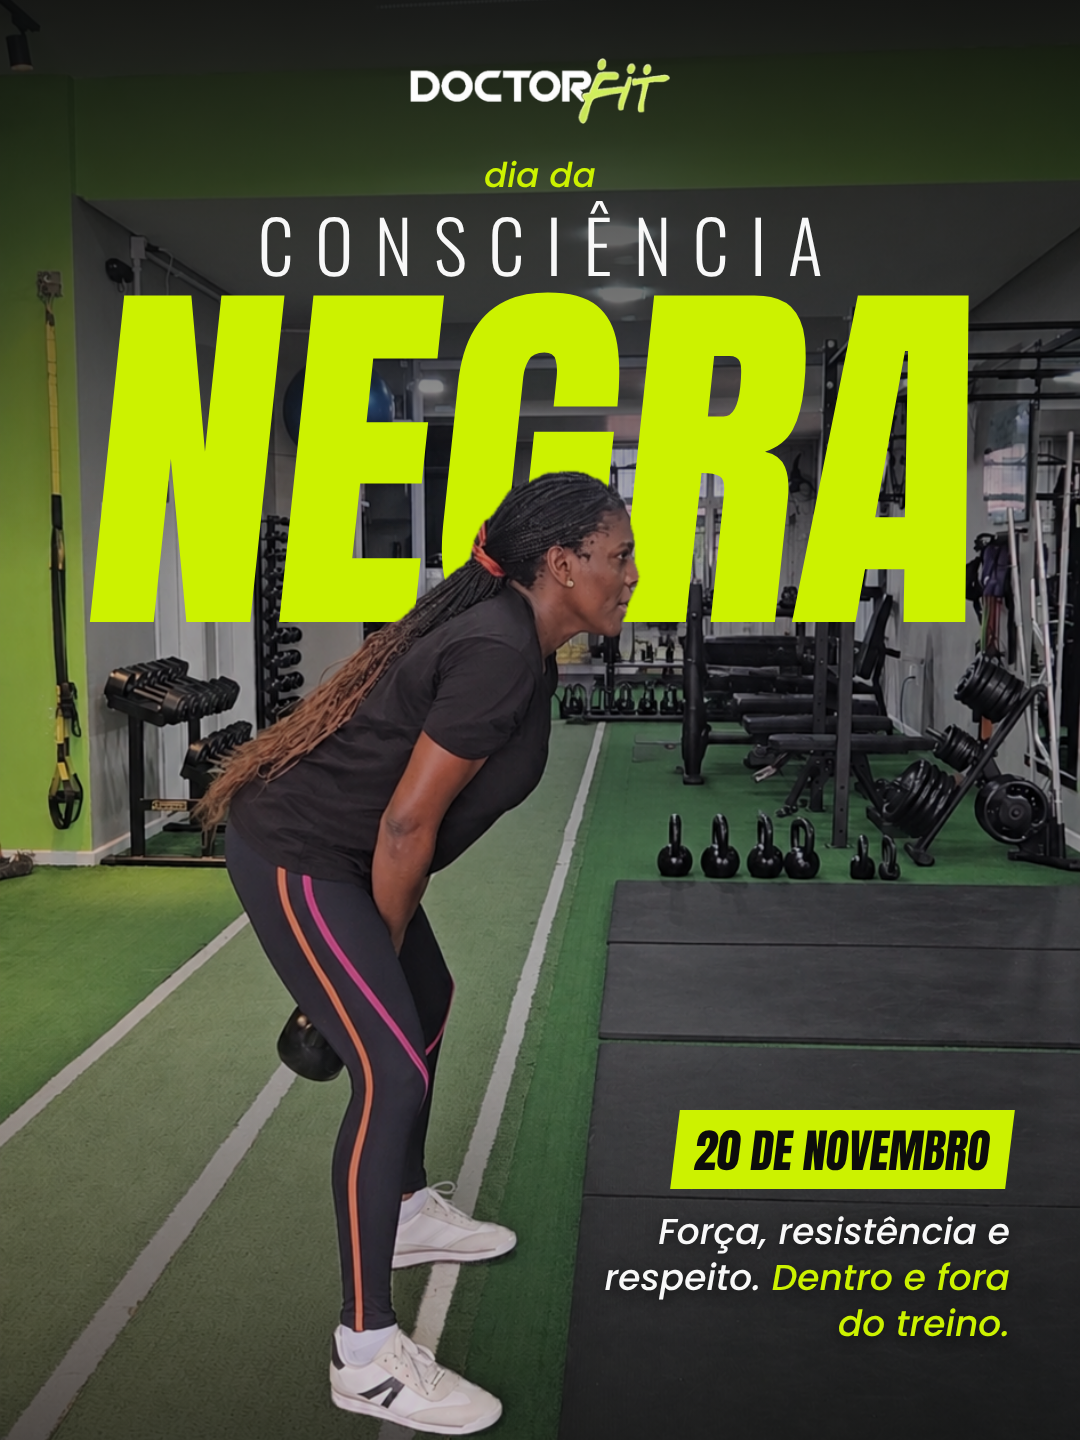
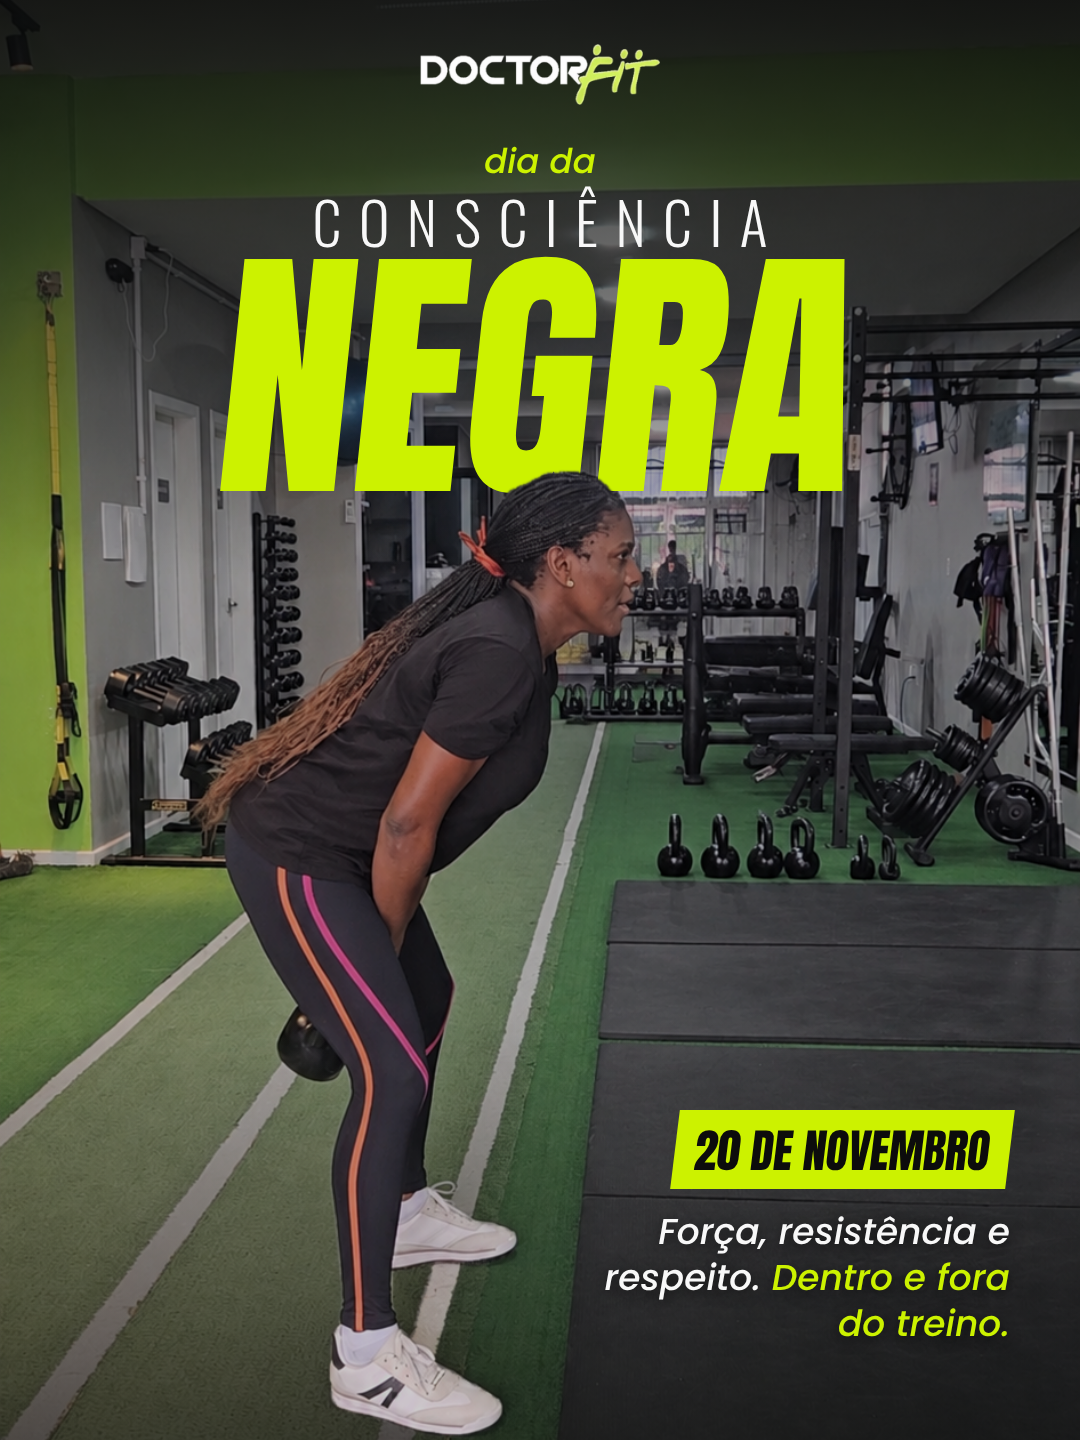
DoctorFit: título menor na capa NEGRA atrás
Claude-Session: https://claude.ai/code/session_012bVqEb5M2bw1tnz2qQiCDo

Changed region(s): [[0.0611, 0.0312, 0.9167, 0.4375]]

diff --git a/doctorfit/capas/consciencia_negra/capa_foto2.html b/doctorfit/capas/consciencia_negra/capa_foto2.html
@@ -7,10 +7,10 @@ html,body{width:1080px;height:1440px;overflow:hidden;background:#0c0c0c}
 .f,.rec{filter:brightness(.8) saturate(.9)}
 .rec{object-fit:cover;object-position:center top}
 .g{position:absolute;inset:0;background:linear-gradient(180deg,rgba(8,9,8,.85) 0%,rgba(8,9,8,.35) 26%,rgba(8,9,8,0) 40%,rgba(8,9,8,0) 70%,rgba(8,9,8,.6) 100%)}
-.logo{position:absolute;left:50%;top:58px;width:260px;transform:translateX(-50%)}
-.cons{position:absolute;left:0;width:1080px;top:190px;text-align:center;font-family:Oswald;font-weight:300;font-size:72px;letter-spacing:.3em;padding-left:.3em;color:#f8f8f8}
-.dia{position:absolute;left:0;width:1080px;top:150px;text-align:center;font-family:Poppins;font-style:italic;font-weight:500;font-size:34px;color:#ccf200}
-.giga{position:absolute;left:0;width:1080px;top:300px;text-align:center;font-family:Anton;font-size:380px;line-height:.85;color:#ccf200;transform:skewX(-6deg);text-transform:uppercase}
+.logo{position:absolute;left:50%;top:44px;width:240px;transform:translateX(-50%)}
+.cons{position:absolute;left:0;width:1080px;top:178px;text-align:center;font-family:Oswald;font-weight:300;font-size:58px;letter-spacing:.3em;padding-left:.3em;color:#f8f8f8}
+.dia{position:absolute;left:0;width:1080px;top:136px;text-align:center;font-family:Poppins;font-style:italic;font-weight:500;font-size:34px;color:#ccf200}
+.giga{position:absolute;left:0;width:1080px;top:262px;text-align:center;font-family:Anton;font-size:270px;line-height:.85;color:#ccf200;transform:skewX(-6deg);text-transform:uppercase}
 .base{position:absolute;right:70px;top:1110px;width:440px;text-align:right}
 .data{display:inline-block;transform:skewX(-7deg);background:#ccf200;color:#0c0c0c;font-family:Anton;font-size:46px;padding:6px 20px 4px}
 .frase{margin-top:20px;font-family:Poppins;font-style:italic;font-weight:500;font-size:36px;line-height:1.28;color:#f8f8f8;text-shadow:0 3px 14px rgba(0,0,0,.6)}
